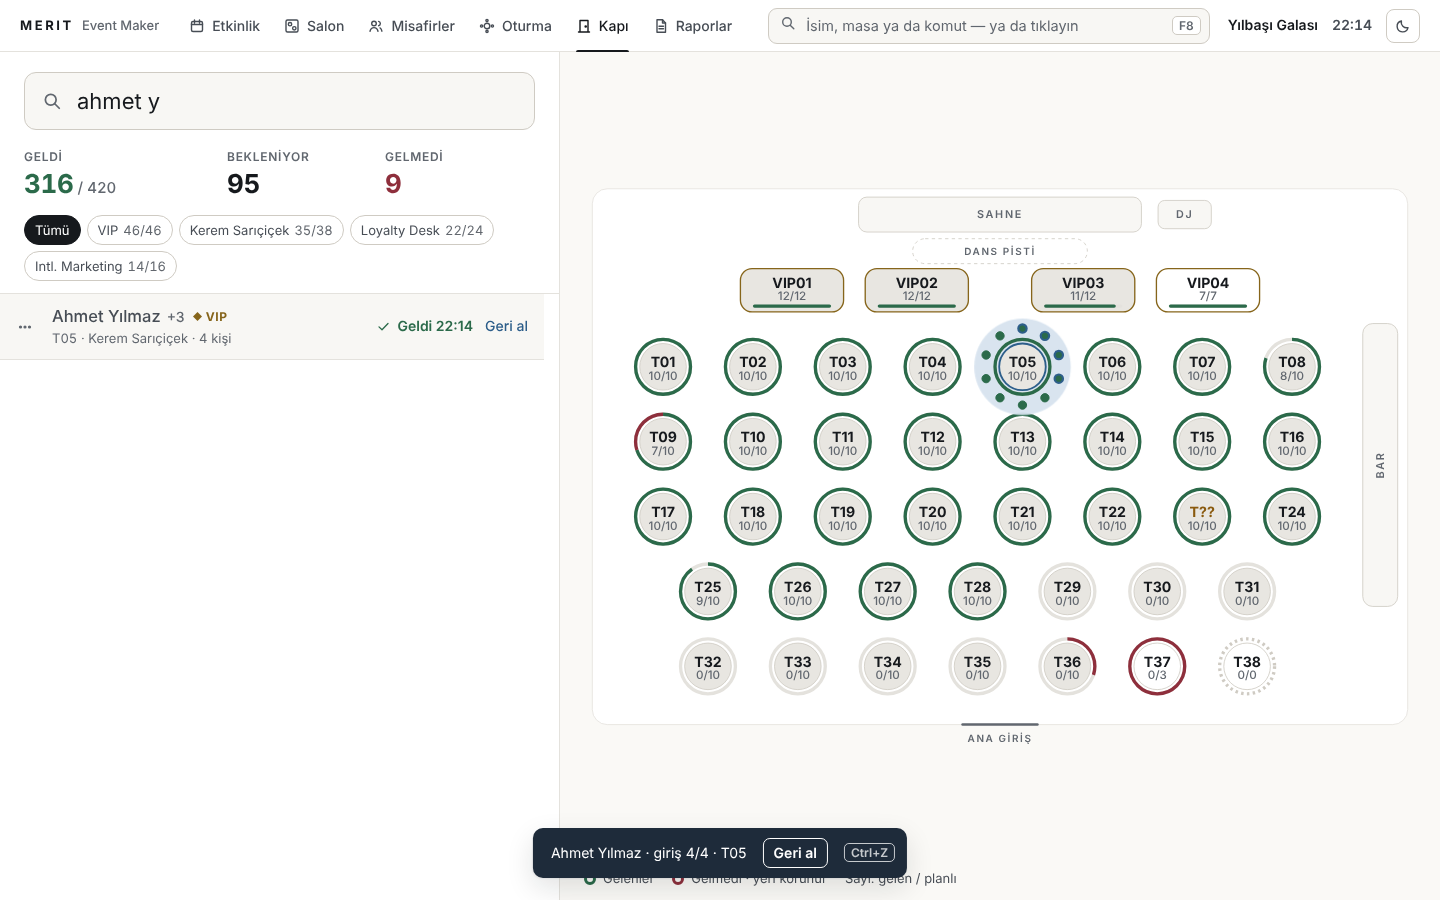
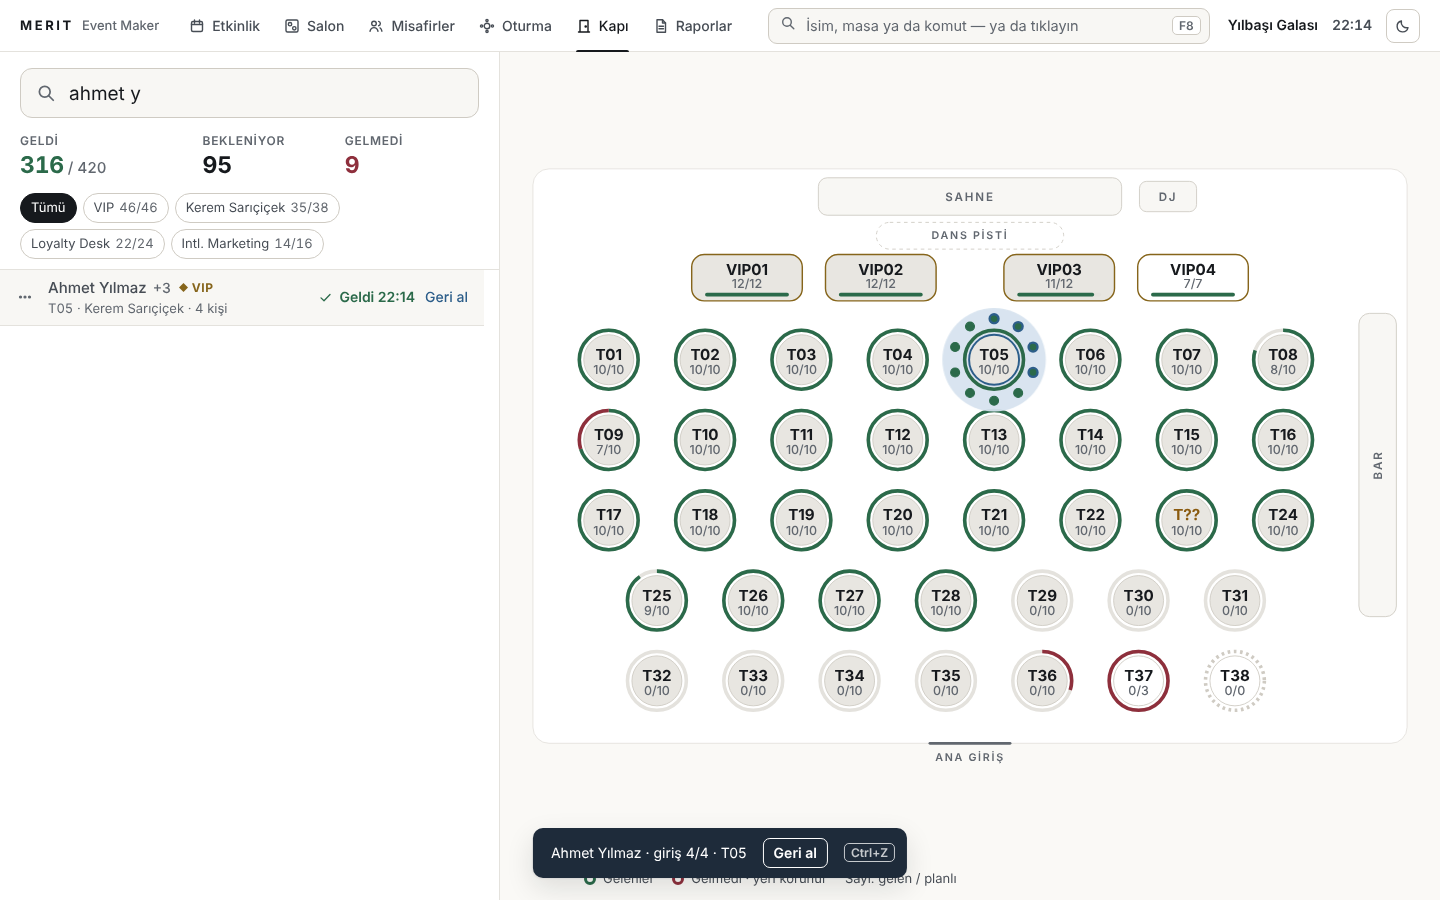
Redesign v3: door list slightly smaller per owner; v3 verdict recorded
Claude-Session: https://claude.ai/code/session_01Ak6diUNXKQisc6dYh4daPW

diff --git a/benchmarks/ux/redesign/6-birlesik/index.html b/benchmarks/ux/redesign/6-birlesik/index.html
@@ -244,34 +244,34 @@ main{height:calc(100vh - 52px);position:relative}
 .sw input:focus-visible+span{outline:2px solid var(--acc2);outline-offset:2px}
 
 /* door */
-.side.wide{width:560px}
-.dsearch{padding:20px 24px 12px;position:relative}
-.dsearch svg{position:absolute;left:42px;top:39px;color:var(--ink3)}
-#dq{width:100%;height:58px;border:1px solid var(--line2);border-radius:12px;background:var(--surf2);color:var(--ink);font:22px var(--font);padding:0 16px 0 52px;outline:none}
+.side.wide{width:500px}
+.dsearch{padding:16px 20px 10px;position:relative}
+.dsearch svg{position:absolute;left:36px;top:31px;color:var(--ink3)}
+#dq{width:100%;height:50px;border:1px solid var(--line2);border-radius:12px;background:var(--surf2);color:var(--ink);font:19px var(--font);padding:0 14px 0 48px;outline:none}
 #dq:focus{border-color:var(--acc2);background:var(--surf)}
-.dcount{display:grid;grid-template-columns:1.3fr 1fr 1fr;padding:6px 24px 12px;gap:8px}
+.dcount{display:grid;grid-template-columns:1.3fr 1fr 1fr;padding:4px 20px 10px;gap:8px}
 .dcount div{display:flex;flex-direction:column}
 .dcount small{font-size:12px;font-weight:600;letter-spacing:.06em;text-transform:uppercase;color:var(--ink3)}
-.dcount b{font-size:26px;font-weight:650;letter-spacing:-.01em}
+.dcount b{font-size:23px;font-weight:650;letter-spacing:-.01em}
 .dcount b.ok{color:var(--ok)}.dcount b.no{color:var(--no)}
 .dcount .of{font-size:15px;color:var(--ink3);font-weight:500}
 .tick-on{animation:tk .9s ease-out}
 @keyframes tk{from{background:var(--ok-soft)}to{background:transparent}}
-.dgroups{display:flex;gap:6px;padding:0 24px 12px;flex-wrap:wrap;border-bottom:1px solid var(--line)}
+.dgroups{display:flex;gap:6px;padding:0 20px 10px;flex-wrap:wrap;border-bottom:1px solid var(--line)}
 .dgroups button{height:30px;padding:0 10px;border-radius:15px;border:1px solid var(--line2);background:var(--surf);font-size:13px;color:var(--ink2);white-space:nowrap}
 .dgroups button[aria-pressed="true"]{background:var(--ink);color:var(--surf);border-color:var(--ink)}
 .dgroups .n{font-variant-numeric:tabular-nums;margin-left:5px;opacity:.85}
 .dlist{overflow:auto;flex:1;scrollbar-gutter:stable}
-.drow{display:grid;grid-template-columns:44px 1fr 196px;align-items:center;height:66px;border-bottom:1px solid var(--line);padding:0 16px 0 8px}
+.drow{display:grid;grid-template-columns:40px 1fr 176px;align-items:center;height:56px;border-bottom:1px solid var(--line);padding:0 16px 0 8px}
 .drow:hover{background:var(--surf2)}
 .drow .more{width:34px;height:34px;border-radius:8px;border:0;background:none;color:var(--ink3);display:grid;place-items:center}
 .drow .more:hover{background:var(--line);color:var(--ink)}
 .dn{min-width:0;white-space:nowrap;overflow:hidden;text-overflow:ellipsis}
-.dn b{font-size:16.5px;font-weight:600}
+.dn b{font-size:15px;font-weight:600}
 .drow.in .dn b{color:var(--ink2);font-weight:500}
 .ds{font-size:13px;color:var(--ink3)}
-.dact{display:flex;justify-content:flex-end;align-items:center;gap:12px;height:44px}
-.dact .giris{width:132px}
+.dact{display:flex;justify-content:flex-end;align-items:center;gap:10px;height:38px}
+.dact .giris{width:116px}
 
 /* guests */
 #s-misafirler{background:var(--surf)}

diff --git a/.claude/STATE.md b/.claude/STATE.md
@@ -183,3 +183,4 @@ only, never move by themselves); (7) phone check-in at the door (with LAN sharin
   done: send shots, wait for owner's yes, then implement screen by screen. Owner's WEEKLY LIMIT nearly spent:
   minimal tokens, no new agents. runEq training continues on its own (chainN).
 - **2026-11-07 ~03:30 Istanbul.** runEq had stalled since 11-02 17:15 UTC: the 2B bf16 safetensors had been deleted for disk, so `runEq-2B` training failed in a loop. Fixed chainN: races eqb7f + eqb7e run FIRST (0.8B, ready), then re-download 2B safetensors (Kara-Kumru gguf deleted for disk — its race was done 10-31), train runEq-2B, race eq2b on **2B-Q8_0** (Q4_K_M no longer on disk; note in verdict). Keep-alive loop + watchdog trig_015eWa59SUF9eg5T1woqXxqv re-armed. Design v3 (6-birlesik, SPEC-v2 "verdict on v2") resumed in agent a46d1288f659f5210 (partial index.html uncommitted); when it returns: commit, ask owner photo by photo.
+- **2026-11-07 ~04:00 Istanbul.** Design v3 verdict: calendar ✓, salon glow ✓, door light ✓, door dark ~ (list a bit smaller → done, re-shot). Next after his OK: implement screen by screen with tests. Training: owner "Bütün modellerin eğitimi eşit olmalı" → runEq2 pre-registered (training/README.md): identical F8 data for B7f/B7e/2B; chainO.sh after chainN; keep-alive ensureO.sh; ship decision = eq2 races. 2B weights re-downloaded (sha256 aa33250c… verified).

diff --git a/benchmarks/ux/redesign/SPEC-v2.md b/benchmarks/ux/redesign/SPEC-v2.md
@@ -39,3 +39,8 @@ colours (calmer, no washed/garish tones) and the same icon plan.
   TABLE glows/pulses softly and refined minimal chairs appear around it with the guest's seat highlighted.
 - Door light ✓ (same chair/highlight idea). Door dark ✗ "neon colours ruin the class" → classic dark: deep
   navy/graphite with ivory text and champagne/gold restraint; no neon, no saturated greens/reds (status by subtle tone).
+
+## Owner's verdict on v3 (2026-11-07)
+- Events calendar (light + dark) ✓ "gayet iyi". Salon glow-on-ask ✓. Door light ✓.
+- Door dark ~ "soldaki liste aşırı büyük, çok az küçült" → list shrunk ~12 % (panel 560→500, rows 66→56, name 16.5→15,
+  search 58→50); applied to both themes. Awaiting his look at the re-shot door photos.
